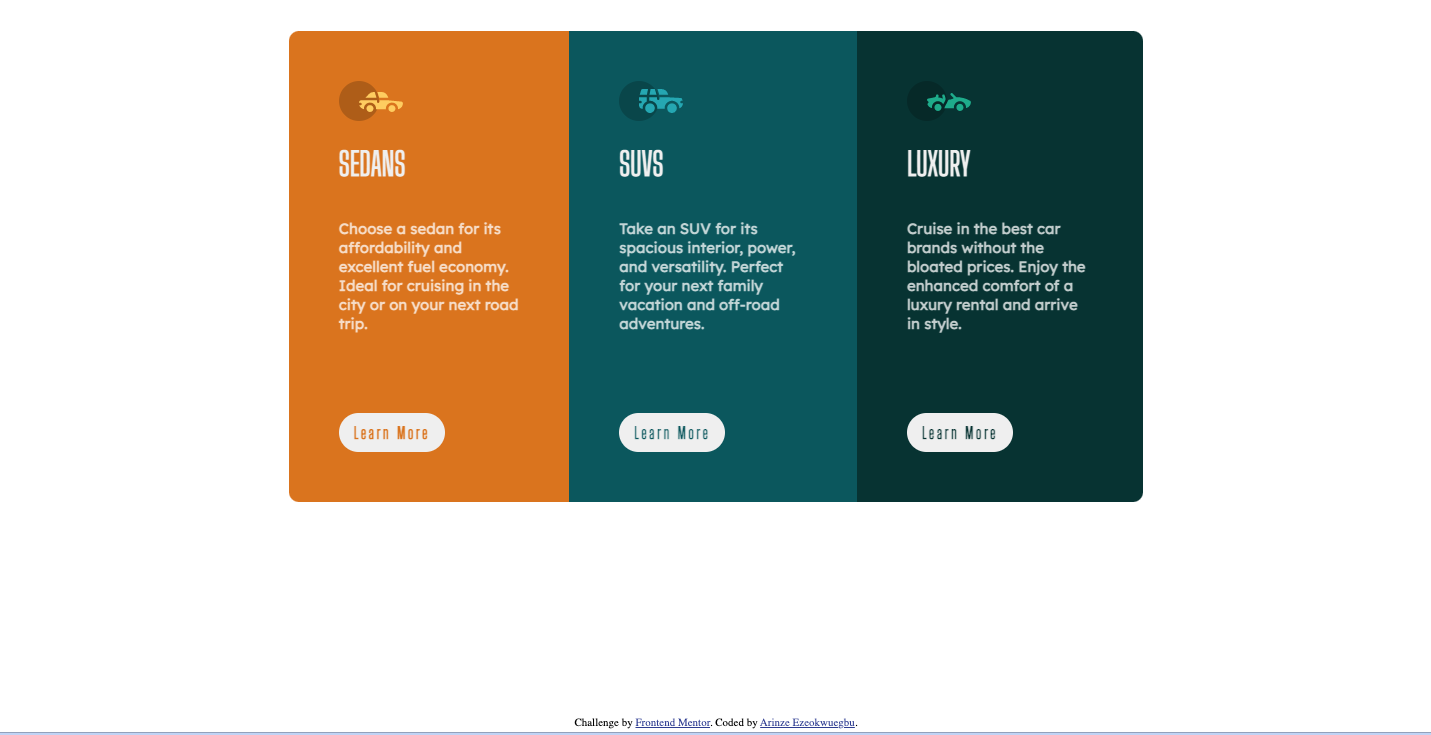
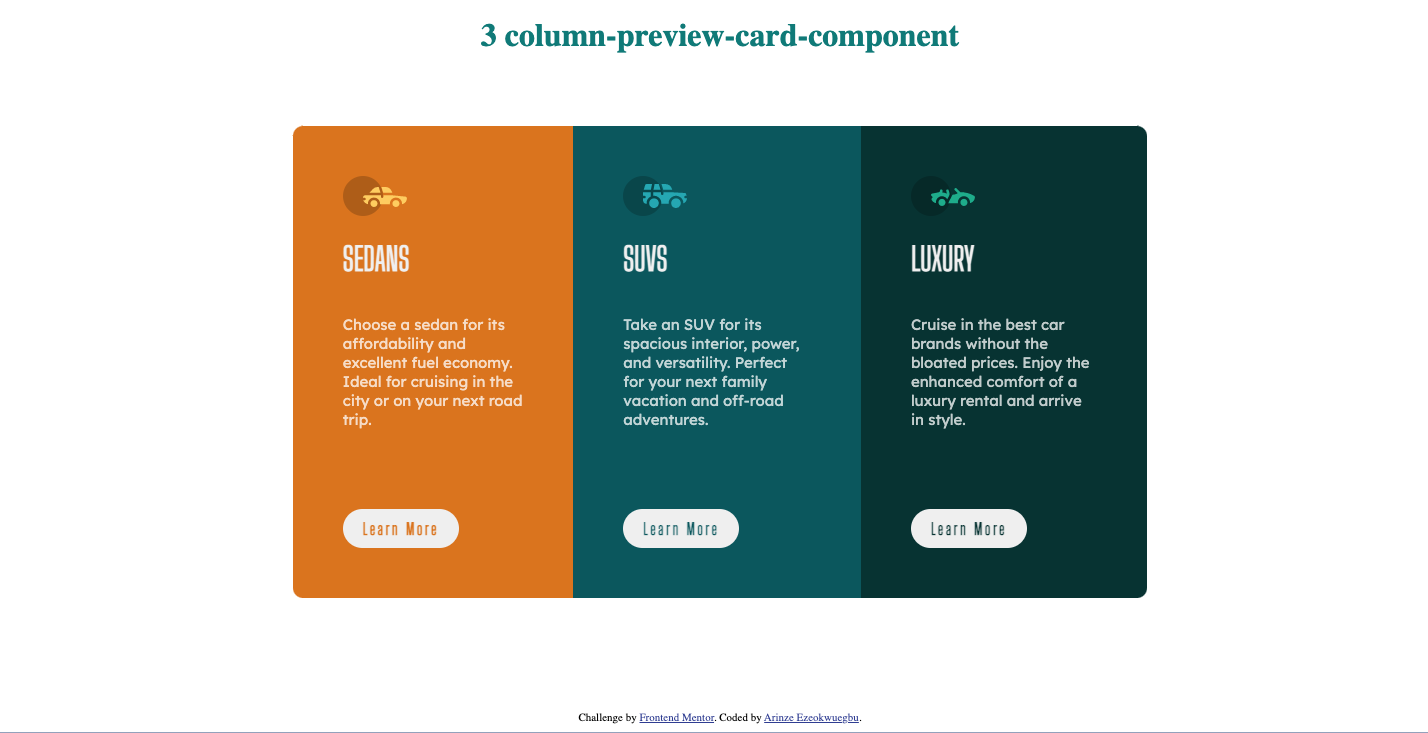
link to LinkedIn profile added in attribution section and anchor tags

Changed region(s): [[0.1849, 0.03, 0.8011, 0.8404], [0.0, 0.9604, 1.0, 1.0]]

diff --git a/index.html b/index.html
@@ -14,6 +14,7 @@
   <link href="index.css" rel="stylesheet"/>
 </head>
 <body>
+  <h1 class="heading">3 column-preview-card-component</h1>
   <div class="container">
 
     <div class="card orange">
@@ -24,7 +25,7 @@
     <p class="sameColor">Choose a sedan for its affordability and excellent fuel economy. Ideal for cruising in the city 
       or on your next road trip.</p>
       
-      <div class="gen orng">Learn More</div>
+      <div class="gen orng"><a href="https://www.linkedin.com/in/arinze-ezeokwuegbu">Learn More</a></div>
     </div>
     
     <div class="card blueGreen">
@@ -35,7 +36,7 @@
       <p class="sameColor">Take an SUV for its spacious interior, power, and versatility. Perfect for your next family vacation 
         and off-road adventures.</p>
         
-        <div class="gen bgrn">Learn More</div>
+        <div class="gen bgrn"><a href="https://www.linkedin.com/in/arinze-ezeokwuegbu">Learn More</a></div>
       </div>
       
       <div class="card armyGreen">
@@ -46,14 +47,14 @@
         <p class="sameColor">Cruise in the best car brands without the bloated prices. Enjoy the enhanced comfort of a luxury 
           rental and arrive in style.</p>
           
-          <div class="gen agrn">Learn More</div>
+          <div class="gen agrn"><a href="https://www.linkedin.com/in/arinze-ezeokwuegbu">Learn More</a></div>
         </div>
 
 </div>
   
   <div class="attribution">
     Challenge by <a href="https://www.frontendmentor.io?ref=challenge" target="_blank">Frontend Mentor</a>. 
-    Coded by <a href="#">Arinze Ezeokwuegbu</a>.
+    Coded by <a href="https://www.linkedin.com/in/arinze-ezeokwuegbu">Arinze Ezeokwuegbu</a>.
   </div>
 </body>
 </html>

diff --git a/index.css b/index.css
@@ -1,9 +1,16 @@
+.heading{
+  display: flex;
+  flex-wrap: wrap;
+  justify-content: center;
+  color:darkcyan;
+  /* align-items: center; */
+}
 .container{
     display: flex;
     justify-content:space-around;
     /* align-items: center; */
     /* width: 900px; */
-    margin: 15% 20% 15%;
+    margin: 5% 20% 8%;
     box-sizing: border-box;
     
     
@@ -62,21 +69,30 @@ h1{
     
 }
 
+.gen a {
+  text-decoration: none;
+}
+
 div.gen:hover {
     cursor: pointer;
     background-color: rgba(0, 0, 0, 0);
-    color: hsl(0, 0%, 95%);
+    /* color: hsl(0, 0%, 95%); */
     border: 0.2em double hsl(0, 0%, 95%);
     transition: 0.3s;
 }
 
-.orng {
+.gen:hover a{
+  color: hsl(0, 0%, 95%);
+}
+
+.orng, .orng a{
   color: hsl(31, 77%, 52%);
 }
-.bgrn {
+
+.bgrn, .bgrn a{
     color: hsl(184, 100%, 22%);
 }
-.agrn {
+.agrn, .agrn a {
   color: hsl(179, 100%, 13%);
 }
 
